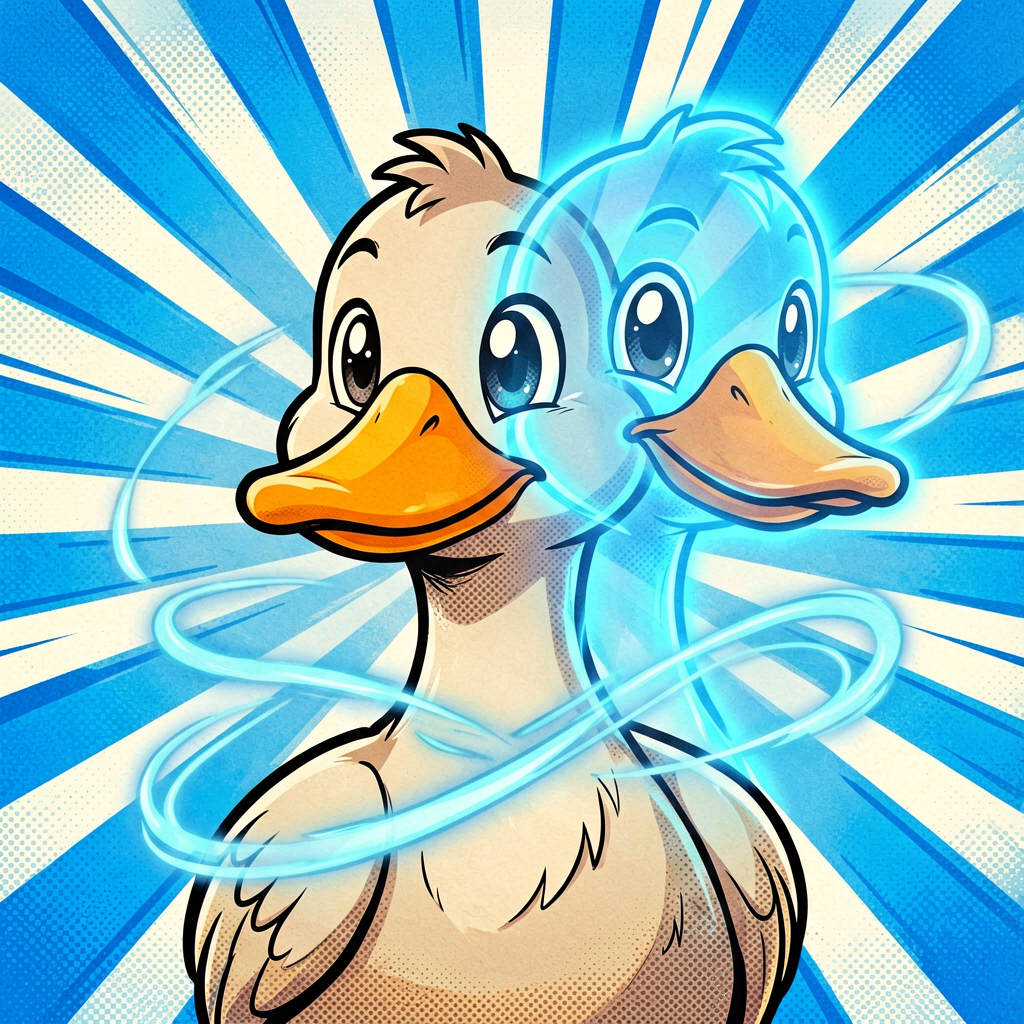
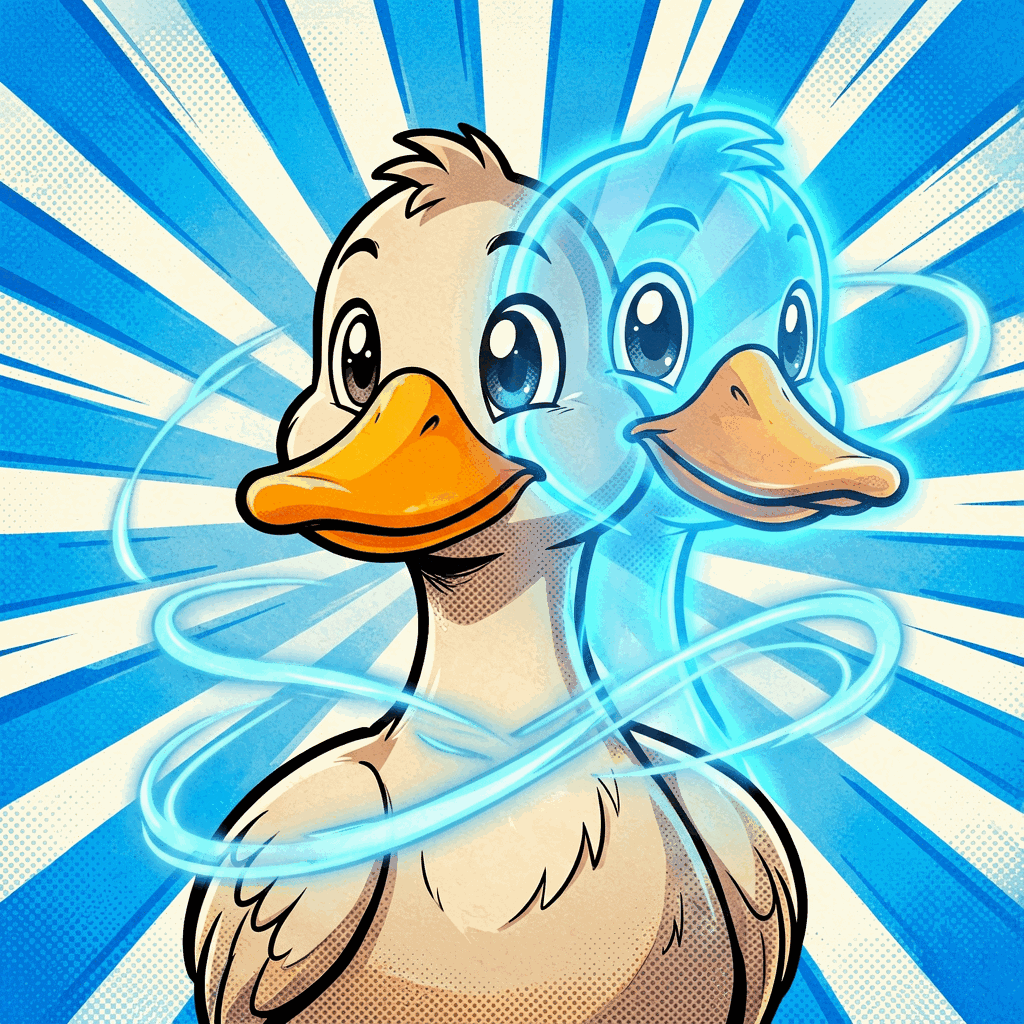
refactor(compress): 优化图像压缩脚本的配置和函数参数
- 将全局变量 TARGET_DIR 设置为默认目标目录
- 修改 compress_to_bytes 函数接受 mode 参数
- 更新 compress_file 函数接受 mode 和 threshold 参数
- 移除全局变量 THRESHOLD_KB 和 MODE 的使用
- 将阈值转换逻辑移到主函数中
- 更新 process_dir 函数接受 mode 和 threshold 参数
- 调整命令行参数处理逻辑

diff --git a/py/compress_inplace.py b/py/compress_inplace.py
@@ -32,7 +32,7 @@ from PIL import Image
 
 # ============================== 配置区 ==============================
 # 不传命令行参数时使用此目录（留空字符串 "" 则必须命令行传入）
-TARGET_DIR = ""
+TARGET_DIR = r"D:\program\project\front\eys-image\american_retro_style_v3"
 
 # 大小阈值（KB）：仅压缩大于此值的文件。默认 800KB
 THRESHOLD_KB = 800
@@ -50,8 +50,8 @@ ALLOWED_EXT = (".png", ".jpg", ".jpeg", ".webp", ".bmp", ".tiff")
 # ================================================================
 
 
-def compress_to_bytes(src_path):
-    """读取图片并压缩，返回压缩后的字节数据 `(ext, data, fmt)`；失败抛异常。"""
+def compress_to_bytes(src_path, mode):
+    """读取图片并压缩，返回压缩后的字节数据；失败抛异常。"""
     with Image.open(src_path) as im:
         im.load()
         fmt = (im.format or "PNG").upper()
@@ -60,7 +60,7 @@ def compress_to_bytes(src_path):
             or (im.mode == "P" and "transparency" in im.info)
         )
 
-        if MODE == "palette" and fmt in ("PNG", "WEBP"):
+        if mode == "palette" and fmt in ("PNG", "WEBP"):
             im = im.convert("RGBA") if has_alpha else im.convert("RGB")
             out = im.quantize(
                 colors=PALETTE_COLORS, method=Image.FASTOCTREE, dither=DITHER
@@ -82,14 +82,13 @@ def compress_to_bytes(src_path):
     return buf.getvalue()
 
 
-def compress_file(src_path):
+def compress_file(src_path, mode, threshold):
     """压缩单个文件并就地覆盖。返回 (原字节数, 压缩后字节数) 或 None（无需/未覆盖）。"""
     before = os.path.getsize(src_path)
-    threshold = THRESHOLD_KB * 1024
     if before <= threshold:
         return None  # 未超过阈值，跳过
 
-    data = compress_to_bytes(src_path)
+    data = compress_to_bytes(src_path, mode)
     after = len(data)
     if after >= before:
         return None  # 压缩后未变小，保留原文件
@@ -108,7 +107,7 @@ def compress_file(src_path):
     return before, after
 
 
-def process_dir(target_dir):
+def process_dir(target_dir, mode, threshold):
     if not os.path.isdir(target_dir):
         print(f"[错误] 目标文件夹不存在: {target_dir}")
         return
@@ -116,7 +115,7 @@ def process_dir(target_dir):
     total_before = total_after = 0
     count = skipped = 0
     print(f"\n▶ 目标文件夹: {target_dir}")
-    print(f"  阈值: >{THRESHOLD_KB}KB  |  模式: {MODE}")
+    print(f"  阈值: >{threshold/1024:.0f}KB  |  模式: {mode}")
     for root, _, files in os.walk(target_dir):
         for fname in files:
             ext = os.path.splitext(fname)[1].lower()
@@ -124,7 +123,7 @@ def process_dir(target_dir):
                 continue
             src_path = os.path.join(root, fname)
             try:
-                r = compress_file(src_path)
+                r = compress_file(src_path, mode, threshold)
             except Exception as e:
                 print(f"  [失败] {src_path}: {e}")
                 continue
@@ -167,10 +166,8 @@ def main():
         print("[错误] 未指定目标文件夹。请命令行传入路径，或在 CONFIG 中设置 TARGET_DIR。")
         return
 
-    global THRESHOLD_KB, MODE
-    THRESHOLD_KB = args.threshold
-    MODE = args.mode
-    process_dir(target)
+    threshold = args.threshold * 1024
+    process_dir(target, args.mode, threshold)
 
 
 if __name__ == "__main__":